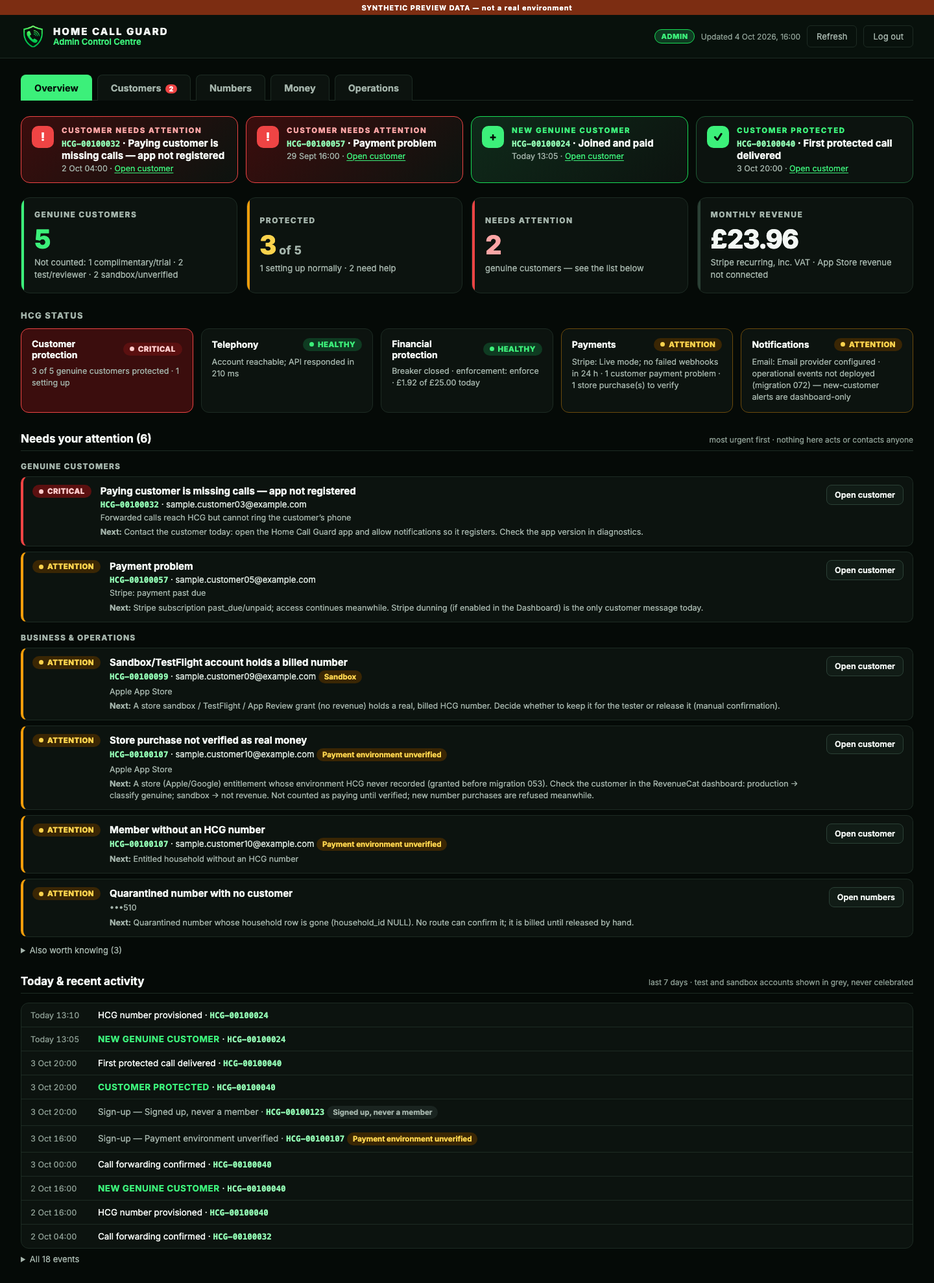
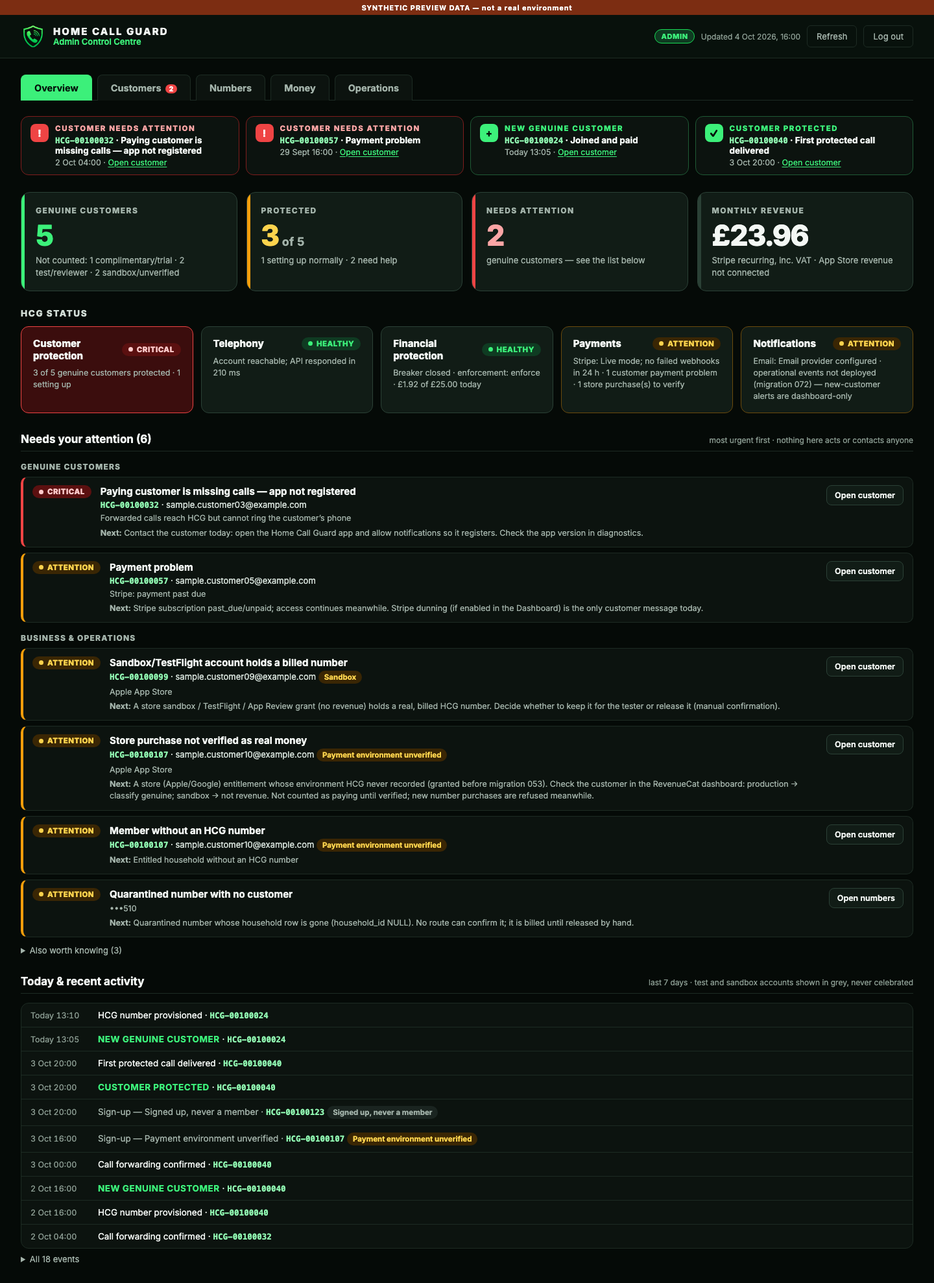
polish(admin): final pass on the approved redesign — calmer Money, stronger KPIs/status, phone usability; Master-integration requirements
- Money: "Money at a glance" stays open; finance detail regrouped into
  labelled collapsible sections (spend safety, P&L and lines, unit
  economics/fixed costs/assumptions, data sources); acquisition &
  marketing collapsible. No information removed.
- Overview: KPI cards and HCG Status visually stronger, event cards
  quieter; fix clickable KPI cards (buttons) being vertically centred.
- Phone: customer rows as cards with Open pinned (no clipping), chips
  scroll on one line, Operations status table stacks per area.
- Doc §13: Master-integration requirements MI-1..MI-5 (one genuine
  definition = commercialStatus, one protected = activationState;
  done on the integrated tree, not here). §14: polish log.
- Screenshots refreshed (+3 phone captures). Tests: +9 checks;
  full suite 198/198, ✓8,765 ✗0.

Not deployed, not merged. Staging …1883 still reserved, no release action.

diff --git a/admin-business.html b/admin-business.html
@@ -325,34 +325,36 @@
   .tab-button[aria-current="page"] .tab-flag { background: var(--red); color: #fff; }
   h3 { color: var(--green-soft); }
   .sub { color: var(--muted); font-size: 13px; }
-  .section-title { font-size: 13px; font-weight: 800; letter-spacing: .1em; text-transform: uppercase; color: var(--muted); margin: 0 0 12px; }
+  .section-title { font-size: 13.5px; font-weight: 800; letter-spacing: .12em; text-transform: uppercase; color: var(--text-2); margin: 0 0 12px; }
   .cc-section { margin-bottom: 30px; }
   .cc-section > .section-header h2 { font-size: 17px; }
 
   /* Headline KPIs */
   .kpis { display: grid; grid-template-columns: repeat(4, 1fr); gap: 14px; margin-bottom: 26px; }
-  .kpi { background: var(--card); border: 1px solid var(--border); border-radius: 14px; padding: 18px 20px; position: relative; overflow: hidden; }
-  .kpi::before { content: ""; position: absolute; inset: 0 auto 0 0; width: 4px; background: var(--border-strong); }
+  .kpi { background: var(--card-2); border: 1px solid var(--border-strong); border-radius: 14px; padding: 20px 22px 18px; position: relative; overflow: hidden; }
+  .kpi::before { content: ""; position: absolute; inset: 0 auto 0 0; width: 5px; background: var(--border-strong); }
   .kpi.tone-good::before { background: var(--green); }
   .kpi.tone-warn::before { background: var(--amber); }
   .kpi.tone-bad::before { background: var(--red); }
   .kpi-label { font-size: 12px; font-weight: 800; letter-spacing: .12em; text-transform: uppercase; color: var(--muted); }
-  .kpi-value { font-size: 40px; font-weight: 800; letter-spacing: -.02em; margin: 6px 0 2px; font-variant-numeric: tabular-nums; }
+  .kpi-value { font-size: 44px; line-height: 1.05; font-weight: 800; letter-spacing: -.02em; margin: 8px 0 6px; font-variant-numeric: tabular-nums; }
   .kpi-value small { font-size: 18px; font-weight: 700; color: var(--muted); letter-spacing: 0; }
   .kpi.tone-good .kpi-value { color: var(--green); }
   .kpi.tone-bad .kpi-value { color: var(--red-text); }
   .kpi.tone-warn .kpi-value { color: var(--amber-text); }
   .kpi-sub { font-size: 13px; color: var(--muted); line-height: 1.45; }
-  button.kpi { text-align: left; font: inherit; color: inherit; cursor: pointer; width: 100%; }
+  /* Clickable KPIs are buttons; browsers centre button content vertically,
+     so lay them out like the plain cards (top-aligned). */
+  button.kpi { text-align: left; font: inherit; color: inherit; cursor: pointer; width: 100%; display: flex; flex-direction: column; justify-content: flex-start; align-items: stretch; }
   button.kpi:hover { border-color: var(--border-strong); background: var(--card-hover); }
 
   /* HCG status */
   .status-list { display: grid; grid-template-columns: repeat(5, 1fr); gap: 12px; margin-bottom: 26px; }
-  .status-item { background: var(--card); border: 1px solid var(--border); border-radius: 12px; padding: 14px 16px; }
+  .status-item { background: var(--card-2); border: 1px solid var(--border-strong); border-radius: 12px; padding: 16px 18px; }
   .status-item.s-critical { border-color: var(--red); background: var(--red-bg); }
   .status-item.s-attention { border-color: #6b4a0c; }
   .status-head { display: flex; align-items: center; justify-content: space-between; gap: 8px; }
-  .status-name { font-weight: 700; font-size: 14px; }
+  .status-name { font-weight: 800; font-size: 15px; }
   .status-text { font-size: 12.5px; color: var(--muted); margin-top: 8px; line-height: 1.45; }
   .state-pill { display: inline-flex; align-items: center; gap: 6px; padding: 3px 10px; border-radius: 999px; font-size: 11.5px; font-weight: 800; letter-spacing: .04em; text-transform: uppercase; white-space: nowrap; }
   .state-pill::before { content: ""; width: 7px; height: 7px; border-radius: 50%; background: currentColor; }
@@ -362,13 +364,14 @@
   .state-unknown { background: var(--grey-bg); color: var(--muted); }
 
   /* Highlights (new genuine customer / protected / needs attention) */
-  .highlights { display: grid; grid-template-columns: repeat(auto-fit, minmax(280px, 1fr)); gap: 12px; margin-bottom: 22px; }
-  .highlight { display: flex; gap: 12px; align-items: flex-start; border-radius: 14px; padding: 14px 16px; border: 1px solid var(--border); background: var(--card); }
-  .highlight .hl-icon { flex: none; width: 34px; height: 34px; border-radius: 10px; display: grid; place-items: center; font-weight: 900; font-size: 17px; }
-  .highlight.hl-new { border-color: var(--green-deep); background: linear-gradient(135deg, #0f2a1a, var(--card)); }
+  .highlights { display: grid; grid-template-columns: repeat(auto-fit, minmax(280px, 1fr)); gap: 10px; margin-bottom: 26px; }
+  .highlight { display: flex; gap: 10px; align-items: flex-start; border-radius: 12px; padding: 11px 14px; border: 1px solid var(--border); background: var(--card); }
+  .highlight .hl-icon { flex: none; width: 28px; height: 28px; border-radius: 8px; display: grid; place-items: center; font-weight: 900; font-size: 15px; }
+  .hl-title { font-size: 13.5px; }
+  .highlight.hl-new { border-color: #1f5a35; }
   .highlight.hl-new .hl-icon, .highlight.hl-protected .hl-icon { background: var(--green); color: var(--on-green); }
   .highlight.hl-protected { border-color: #1f5a35; }
-  .highlight.hl-attention { border-color: var(--red); background: linear-gradient(135deg, #3b0d0d, var(--card)); }
+  .highlight.hl-attention { border-color: #7f1d1d; }
   .highlight.hl-attention .hl-icon { background: var(--red); color: #fff; }
   .hl-kind { font-size: 11.5px; font-weight: 900; letter-spacing: .14em; text-transform: uppercase; }
   .hl-new .hl-kind, .hl-protected .hl-kind { color: var(--green); }
@@ -479,6 +482,28 @@
     .status-item { padding: 12px 14px; }
     .att2 li { grid-template-columns: 1fr; gap: 6px; }
     .cc-table .hide-sm { display: none; }
+    /* Customers on a phone: each row is a card, so nothing (incl. Open) is clipped. */
+    .cc-table, .cc-table tbody { display: block; }
+    .cc-table thead { display: none; }
+    .cc-table tr.cc-row { display: grid; grid-template-columns: minmax(0, 1fr) auto; gap: 6px 10px; padding: 12px 4px; border-bottom: 1px solid var(--border); }
+    .cc-table tr.cc-row td { display: block; padding: 0; border: none; grid-column: 1; min-width: 0; overflow-wrap: anywhere; }
+    .cc-table .seg { white-space: normal; }
+    .cc-table tr.cc-row td:first-child { box-shadow: none !important; }
+    .cc-table tr.cc-row.att-critical { box-shadow: inset 4px 0 0 var(--red); padding-left: 12px; }
+    .cc-table tr.cc-row.att-action { box-shadow: inset 4px 0 0 var(--amber); padding-left: 12px; }
+    .cc-table tr.cc-row td:last-child { grid-column: 2; grid-row: 1; }
+    .cc-table tr.detail-row, .cc-table tr.detail-row td { display: block; padding: 8px 0; }
+    .filter-bar { flex-wrap: nowrap; overflow-x: auto; }
+    .filter-chip { white-space: nowrap; flex: none; }
+    .tab-button { padding: 10px 11px; }
+    .customer-search { min-width: 180px; margin-left: 0; }
+    /* Operations status table on a phone: one stacked block per area. */
+    .ops-table th { display: none; }
+    .ops-table td { display: block; padding: 3px 0; border: none; }
+    .ops-table tr { display: block; padding: 10px 0; border-bottom: 1px solid var(--border); }
+    .kpi-value { font-size: 30px; }
+    .kpis .kpi-value[style] { font-size: 22px !important; }
+    .notice { font-size: 13px; }
     .journey { grid-template-columns: 1fr; }
     .journey li { text-align: left; padding: 4px 0 10px 30px; }
     .journey li::before { top: 0; bottom: 0; left: 9px; right: auto; width: 3px; height: auto; }
@@ -522,7 +547,7 @@
   <div id="overview" class="tab-panel" role="tabpanel"><div id="ccHighlights"></div><div id="ccHeadline"><div class="loading">Loading…</div></div><div id="ccStatus"></div><div id="attention"></div><div id="ccActivity"></div></div>
   <div id="customers" class="tab-panel" role="tabpanel" hidden><div id="customerHealth"><div class="loading">Loading…</div></div><details class="secondary-section"><summary>Membership &amp; payment history — detailed counts</summary><div id="subscriptions"></div></details></div>
   <div id="numbers" class="tab-panel" role="tabpanel" hidden><div id="ccNumbers"></div><div id="reconciliation"><div class="loading">Loading…</div></div></div>
-  <div id="money" class="tab-panel" role="tabpanel" hidden><div id="ccMoney"><div class="loading">Loading…</div></div><div id="finance"><div class="loading">Loading…</div></div><div id="marketing"></div><div id="acquisition"></div></div>
+  <div id="money" class="tab-panel" role="tabpanel" hidden><div id="ccMoney"><div class="loading">Loading…</div></div><div id="finance"><div class="loading">Loading…</div></div><details class="secondary-section"><summary>Acquisition &amp; marketing — channels, campaigns, website funnel, tracked links</summary><div id="marketing"></div><div id="acquisition"></div></details></div>
   <div id="operations" class="tab-panel" role="tabpanel" hidden><div id="ccOpsStatus"></div><div id="usageSafety"></div><div id="callActivity"><div class="loading">Loading…</div></div><div id="systemhealth"></div><div id="overviewBody"></div><div id="opsTools"><div class="loading">Loading…</div></div></div>
 </div>
 
@@ -1643,7 +1668,7 @@ function renderOpsStatusHtml({ fortress, fortressError, opsEvents, opsEventsErro
   rows.push(['Accounting / Xero', accounting ? 'healthy' : 'unknown', accounting ? 'Capture ' + (accounting.capture_enabled ? 'on' : 'off') : (accountingError || 'not deployed')]);
   rows.push(['Background jobs', 'unknown', 'No job heartbeat is reported to this dashboard (release sweep, ledger) — check Railway logs']);
   let html = '<div class="cc-section"><div class="section-header"><h2>Service &amp; safety status</h2><span class="last-updated">read-only</span></div>';
-  html += '<table class="mini-table"><tr><th>Area</th><th>State</th><th>Detail</th></tr>' + rows.map((r) => '<tr><td><strong>' + escapeHtml(r[0]) + '</strong></td><td>' + ccStatePill(r[1]) + '</td><td class="sub">' + escapeHtml(r[2]) + '</td></tr>').join('') + '</table>';
+  html += '<table class="mini-table ops-table"><tr><th>Area</th><th>State</th><th>Detail</th></tr>' + rows.map((r) => '<tr><td><strong>' + escapeHtml(r[0]) + '</strong></td><td>' + ccStatePill(r[1]) + '</td><td class="sub">' + escapeHtml(r[2]) + '</td></tr>').join('') + '</table>';
   html += '<div class="notice" style="margin-top:12px;"><strong>Emergency controls are deliberately not buttons here.</strong> Breaker reset, kill switch and per-customer financial holds go through the audited admin endpoints (/admin/api/fortress/…), which require a typed confirmation phrase and a written reason and record the acting admin.</div>';
   return html + '</div>';
 }
@@ -2845,10 +2870,18 @@ async function renderFinanceTab() {
   const t = d.totals;
   const u = d.unitEconomics;
   let html = '<div class="section">' + sectionHeader('Finance detail — ' + escapeHtml(d.period.label), d.generatedAt, 'finance');
+  // Polish (2026-10-04): the founder summary above ("Money at a glance")
+  // stays open; this detail is the same information, grouped into labelled
+  // collapsible sections so the page is not a wall of tables.
+  const safetyLevel = d.safety && d.safety.level ? String(d.safety.level) : 'not connected';
+  html += '<p class="sub" style="margin-bottom:10px;">Every figure below carries its source. Open a section for the detail.</p>';
+  html += '<details class="secondary-section"><summary>Spend safety — level ' + escapeHtml(safetyLevel) + '</summary>';
+  html += renderSafetyHtml(d.safety);
+  html += '</details>';
+  html += '<details class="secondary-section"><summary>Profit &amp; loss and cost lines (with sources)</summary>';
   html += '<p class="sub" style="margin-bottom:6px;">Source: ' + escapeHtml(d.connections.source) + ' · Stripe: ' + escapeHtml(d.stripeMode) + '</p>';
   html += '<p class="sub" style="margin-bottom:14px;">' + provenanceBadge('ACTUAL') + ' supplier-reported ' + provenanceBadge('ALLOCATED') + ' supplier total apportioned ' + provenanceBadge('ESTIMATED') + ' calculated ' + provenanceBadge('MANUAL') + ' entered by you ' + provenanceBadge('NOT_CONNECTED') + ' no source (never £0). A total missing any line is shown as <em>known part only</em> or not at all.</p>';
-  html += renderSafetyHtml(d.safety);
-  html += '<h3 style="margin-top:22px;">Profit &amp; loss</h3>';
+  html += '<h3 style="margin-top:6px;">Profit &amp; loss</h3>';
   const headline = [
     ['Revenue ex VAT (genuine)', t.revenueExVat], ['Total operating cost', t.totalOperatingCost], ['Gross contribution', t.grossContribution], ['Operating contribution', t.operatingContribution], ['Marketing', t.marketing],
   ];
@@ -2866,10 +2899,11 @@ async function renderFinanceTab() {
       html += '<tr><td>' + escapeHtml(l.label) + '</td><td class="num">' + escapeHtml(formatGbpOrMissing(l.amountGbp)) + '</td><td>' + provenanceBadge(l.provenance) + (l.stale ? ' <span class="text-warn">re-check</span>' : '') + '</td><td class="customer-sub cell-wrap">' + escapeHtml(l.basis || '') + '</td></tr>';
     }
   }
-  html += '</table>';
+  html += '</table></details>';
 
   const unit = (v) => (v && v.amountGbp !== null ? escapeHtml(formatGbpOrMissing(v.amountGbp)) + (v.partial ? ' <span class="text-warn">(known part only)</span>' : v.complete === false ? ' <span class="text-warn">(incomplete)</span>' : '') : '—');
-  html += '<h3 style="margin-top:22px;">Unit economics</h3><table class="fact-table">' +
+  html += '<details class="secondary-section"><summary>Unit economics, fixed costs &amp; assumptions</summary>';
+  html += '<h3 style="margin-top:6px;">Unit economics</h3><table class="fact-table">' +
     '<tr><td>Accounts with access (any kind)</td><td>' + fmtNum(u.accountsWithAccess) + '</td></tr>' +
     '<tr><td>Genuine paying customers</td><td>' + fmtNum(u.genuinePayingCustomers) + '</td></tr>' +
     '<tr><td>Operating cost per account with access</td><td>' + unit(u.operatingCostPerAccountWithAccess) + '</td></tr>' +
@@ -2883,9 +2917,10 @@ async function renderFinanceTab() {
   html += '<h3 style="margin-top:22px;">Fixed-cost settings</h3><table class="fact-table">' + (d.fixedCostSettings || []).map((f) =>
     '<tr><td>' + escapeHtml(f.label) + '</td><td>' + (f.configured ? escapeHtml(formatGbpOrMissing(f.valueGbp)) + '/month · ' + (f.asOf ? 'checked ' + escapeHtml(f.asOf) : 'no checked date') + (f.stale ? ' <span class="text-warn">re-check</span>' : '') : provenanceBadge('NOT_CONNECTED') + ' set <code>' + escapeHtml(f.amountVar) + '</code> and <code>' + escapeHtml(f.asOfVar) + '</code>') + '<div class="customer-sub">' + escapeHtml(f.howToFind) + '</div></td></tr>').join('') + '</table>';
 
-  html += '<h3 style="margin-top:22px;">Data sources</h3><table class="fact-table">' +
-    Object.entries(d.connections).map(([k, v]) => '<tr><td>' + escapeHtml(k) + '</td><td>' + escapeHtml(v) + '</td></tr>').join('') + '</table>';
   html += '<div class="gaps" style="margin-top:16px;">Manual costs (advertising invoices, developer programmes, insurance, accountancy…) arrive with the Finance ledger (migration 051) and manual cost schedules. Until then those lines stay <strong>Not connected</strong> — never £0.</div>';
+  html += '</details>';
+  html += '<details class="secondary-section"><summary>Data sources &amp; connections</summary><table class="fact-table">' +
+    Object.entries(d.connections).map(([k, v]) => '<tr><td>' + escapeHtml(k) + '</td><td>' + escapeHtml(v) + '</td></tr>').join('') + '</table></details>';
   html += '</div>';
   document.getElementById('finance').innerHTML = html;
 }

diff --git a/docs/product/2026-10-04-ADMIN-CONTROL-CENTRE-REDESIGN.md b/docs/product/2026-10-04-ADMIN-CONTROL-CENTRE-REDESIGN.md
@@ -1,6 +1,6 @@
 <!--
-STATUS (2026-10-04): DESIGN FOR APPROVAL. Branch feature/admin-control-centre-redesign,
-pushed, NOT merged, NOT deployed. No database, provider, store or price change.
+STATUS (2026-10-04): DIRECTION APPROVED by Andrew; final polish pass done (§14).
+Branch feature/admin-control-centre-redesign, pushed, NOT merged, NOT deployed. No database, provider, store or price change.
 Previews use SYNTHETIC data only.
 -->
 # Admin Control Centre redesign (2026-10-04)
@@ -11,7 +11,7 @@ Previews use SYNTHETIC data only.
 | Worktree | `/Users/ad/call-ai-admin-redesign` (`node_modules` and `mobile/node_modules` are git-ignored symlinks to existing installs) |
 | Base | `integration/soft-launch-candidate-2026-10-04` @ `b0e46dd` |
 | Previews | `docs/admin/previews/2026-10-04-redesign/{before,after}/*.png` (synthetic data) |
-| Tests | 198/198 files, ✓8,756 ✗0 (see §11) |
+| Tests | 198/198 files, ✓8,765 ✗0 after the polish pass (see §11, §14) |
 
 ## 1. Starting point: what was merged and what was not
 
@@ -98,6 +98,7 @@ All screens are SYNTHETIC: 12 invented households, `example.com` addresses, fict
 | Numbers | `before/5-numbers.png` | `after/5-numbers.png` |
 | Operations | `before/6-operations.png` | `after/6-operations.png` |
 | Phone (390 px) Overview | `before/7-mobile-overview.png` | `after/7-mobile-overview.png` |
+| Phone (390 px) Customers, Money, Operations | — | `after/8-mobile-customers.png`, `after/9-mobile-money.png`, `after/10-mobile-operations.png` (added in the polish pass) |
 
 Paths are relative to `docs/admin/previews/2026-10-04-redesign/`.
 
@@ -259,8 +260,8 @@ Offline dummy environment (`SUPABASE_URL=http://127.0.0.1:9`, dummy keys, `NODE_
 
 | # | Item | Status / recommendation |
 |---|---|---|
-| D-1 | **Converge the two genuine definitions.** These still use v2 `genuine_customer` classification: Stripe MRR attribution (the "Monthly revenue" KPI), number inventory categories, the Memberships counts, usage `accountClass` and the detailed checks. | Recommend making `commercialStatus` the only rule and attributing Stripe MRR by `stripe_customer_id` → household → commercial status. Andrew's decision; until then the glossary states both. |
-| D-2 | Legacy `adminCustomerHealth` / `computeProtectionStatus` still drive `/admin/api/customers/onboarding` and the diagnostics panel. | Move them onto `activationState` (lifecycle doc step D-W1). The new table already uses the canonical state. |
+| D-1 | **APPROVED 2026-10-04 → requirement MI-1 (§13).** Converge the two genuine definitions. These still use v2 `genuine_customer` classification: Stripe MRR attribution (the "Monthly revenue" KPI), number inventory categories, the Memberships counts, usage `accountClass` and the detailed checks. | Recommend making `commercialStatus` the only rule and attributing Stripe MRR by `stripe_customer_id` → household → commercial status. Andrew's decision; until then the glossary states both. |
+| D-2 | **→ requirement MI-2 (§13).** Legacy `adminCustomerHealth` / `computeProtectionStatus` still drive `/admin/api/customers/onboarding` and the diagnostics panel. | Move them onto `activationState` (lifecycle doc step D-W1). The new table already uses the canonical state. |
 | D-3 | Migration 062 (account numbers) is not applied in production. | Until it is, every row says "No account no. yet". |
 | D-4 | Migration 072 (ops events) is not applied. | Highlights and activity are derived from the summary meanwhile. The existing "mark seen" route is not wired into the UI. Notifications stay OFF. |
 | D-5 | Migrations 064–070 (Fortress) and 071 (accounting) are not applied. | Financial protection, allowance exposure and accounting show "Not reported / not deployed" in production until applied. |
@@ -272,5 +273,50 @@ Offline dummy environment (`SUPABASE_URL=http://127.0.0.1:9`, dummy keys, `NODE_
 | D-11 | Release-review prototype (v2), final button disabled. | Unchanged; hidden for the reserved staging number. |
 | D-12 | Live price check. | The dashboard states £5.99 inc VAT. Live Stripe and store prices were not checked or changed here. |
 | D-13 | Scale. | The summary loads every household snapshot per request. Fine for the soft launch; paginate or cache before hundreds of customers. |
+
+## 13. Master-integration requirements (Andrew's decision, 2026-10-04)
+
+Andrew approved switching revenue, customer counts and number/customer categorisation to the canonical commercial-status rule **during Master integration**. The end state is fixed:
+
+- **ONE definition of a genuine customer** throughout HCG: `services/commercial/commercialStatus.js`.
+- **ONE canonical definition of protected**: `services/lifecycle/activationState.js`, already surfaced to customers through `canonicalProtection.js`.
+
+These changes are **deliberately not made on this branch**. Master has newer launch/security work, and reconciling across branches here would be risky. The integrator must do them on the integrated tree:
+
+| # | Requirement | Where the old rule lives today | Done when |
+|---|---|---|---|
+| MI-1a | **Revenue / MRR**: attribute Stripe subscriptions and charges by `stripe_customer_id` → household → `classifyCommercialStatus`, not `classification === 'genuine_customer'`. | `services/businessControl/controlOverview.js` (genuineByCustomer), `stripeRevenue.js`, `financialReadModel.js` | "Monthly revenue" and "Collected this month" count exactly the households the Overview calls Genuine paying. A test pins equality on a fixture with an unclassified Stripe-live payer and a classified-genuine Stripe-test payer. |
+| MI-1b | **Customer counts**: subscription overview, detailed checks cards, due-diligence snapshot, acquisition "real customer" funnel and usage-safety `accountClass` use the commercial status. | `services/businessControl/definitions.js` (`classifyHouseholdForBusiness`), `subscriptionOverview.js`, `controlOverview.js`, `dueDiligenceSnapshot.js`, `usageSafety.js`, acquisition | `definitions.js` no longer decides "genuine". Classification remains only as the test/reviewer/admin *exclusion* input that `commercialStatus` already reads. |
+| MI-1c | **Number / customer categorisation**: provider inventory categories (customer_active, unknown, internal_test, reviewer…) derive from the commercial status. | `services/businessControl/numberInventory.js` (`categoriseInventoryRow`) | The v2 inventory table and "Numbers at a glance" agree for every number. The reserved staging number stays reserved. |
+| MI-1d | Remove the "accounts that need classifying (to count as genuine)" attention topic and the glossary's second genuine row. | `admin-business.html` (`CARD_TOPIC`, `GLOSSARY_ROWS`), `controlOverview.js` cards `paid_unclassified` / `non_paying_access` | Glossary has one genuine row. |
+| MI-2a | **Protected**: admin customer feed and diagnostics use `deriveActivationState` (all nine gates); `computeProtectionStatus` is used only as an input to it. | `services/adminCustomerHealth.js`, `services/adminOnboardingStatus.js`, `database/adminMetrics.js` (`buildOnboardingRow`, `getHouseholdStatusDetail`, `attachProtectionEvidence`), v2 `protected` / `entitled_not_protected` cards | No admin surface can say Protected/Healthy while a canonical gate fails (hold, quarantine, stale evidence, payment state). The legacy fallback banner in Customers can be removed. |
+| MI-2b | One protection label set shared by admin and the apps. | `STAGE_DISPLAY` here vs mobile copy (decision D-C5 on the lifecycle branch) | Both read the same stage codes. Copy is owned by the product decision. |
+| MI-3 | Re-run this branch's suite **on the integrated tree**, plus a real-environment check. | — | `tests/admin-control-centre-redesign.test.mjs` passes. Then staging: log in as a real admin and open every tab. That confirms the auth path, which the synthetic previews do not exercise. |
+| MI-4 | Migration order. | 062 (account numbers), 064–070 (Fortress), 071 (accounting), 072 (ops events) | Applied per the central numbering plan. Until then the page shows "No account no. yet" / "Not reported" / "not deployed", never guesses. |
+| MI-5 | Keep the safety properties. | — | The reserved staging number (…1883) never gets a release action. Emergency controls stay on the audited typed-confirmation endpoints. The summary route stays requireAuth + requireAdmin and fails closed. Notifications stay off until separately approved. |
+
+## 14. Final polish pass (2026-10-04, after approval)
+
+Small changes only; the structure is unchanged.
+
+- **Money.** "Money at a glance" (8 cards) stays open at the top. The finance detail is the same content, grouped into labelled collapsible sections:
+  - Spend safety (level shown in the label);
+  - Profit & loss and cost lines (with sources);
+  - Unit economics, fixed costs & assumptions;
+  - Data sources & connections.
+
+  Acquisition & marketing (channels, campaigns, website funnel, tracked links) is one collapsible section. Nothing was removed.
+- **Overview.** KPI cards and HCG Status are slightly stronger (bigger values, stronger card surface and border, bolder status names). Event cards are quieter (smaller, no gradient). No information added.
+  - Fixed a real defect: the three clickable KPI cards are buttons, which browsers centre vertically, so their labels sat lower than the "Monthly revenue" card. They are now top-aligned.
+- **Phone.**
+  - Customer rows become cards with *Open* pinned top-right (nothing clipped).
+  - Filter chips scroll in one line, and tabs are a little tighter.
+  - The Operations status table stacks per area; the emergency-controls notice stays visible.
+  - New captures: `after/8-mobile-customers.png`, `9-mobile-money.png`, `10-mobile-operations.png`.
+- **Unchanged:** Customers table and journey, Numbers (staging number still "Reserved — do not release", no release action), Operations depth, branding, safety controls, synthetic previews.
+- **Tests.**
+  - +9 checks in `tests/admin-control-centre-redesign.test.mjs`: Money collapsibles, KPI alignment, phone layout.
+  - Full suite 198/198, ✓8,765 ✗0, with `mobile/node_modules` symlinked as before.
+  - Real-PG suites still opt-in (0 checks); no SQL change.
 
 **STOP:** this branch is ready for Andrew's review. Do not merge or deploy without his approval. Integrate it after (or together with) the soft-launch candidate it is based on.
